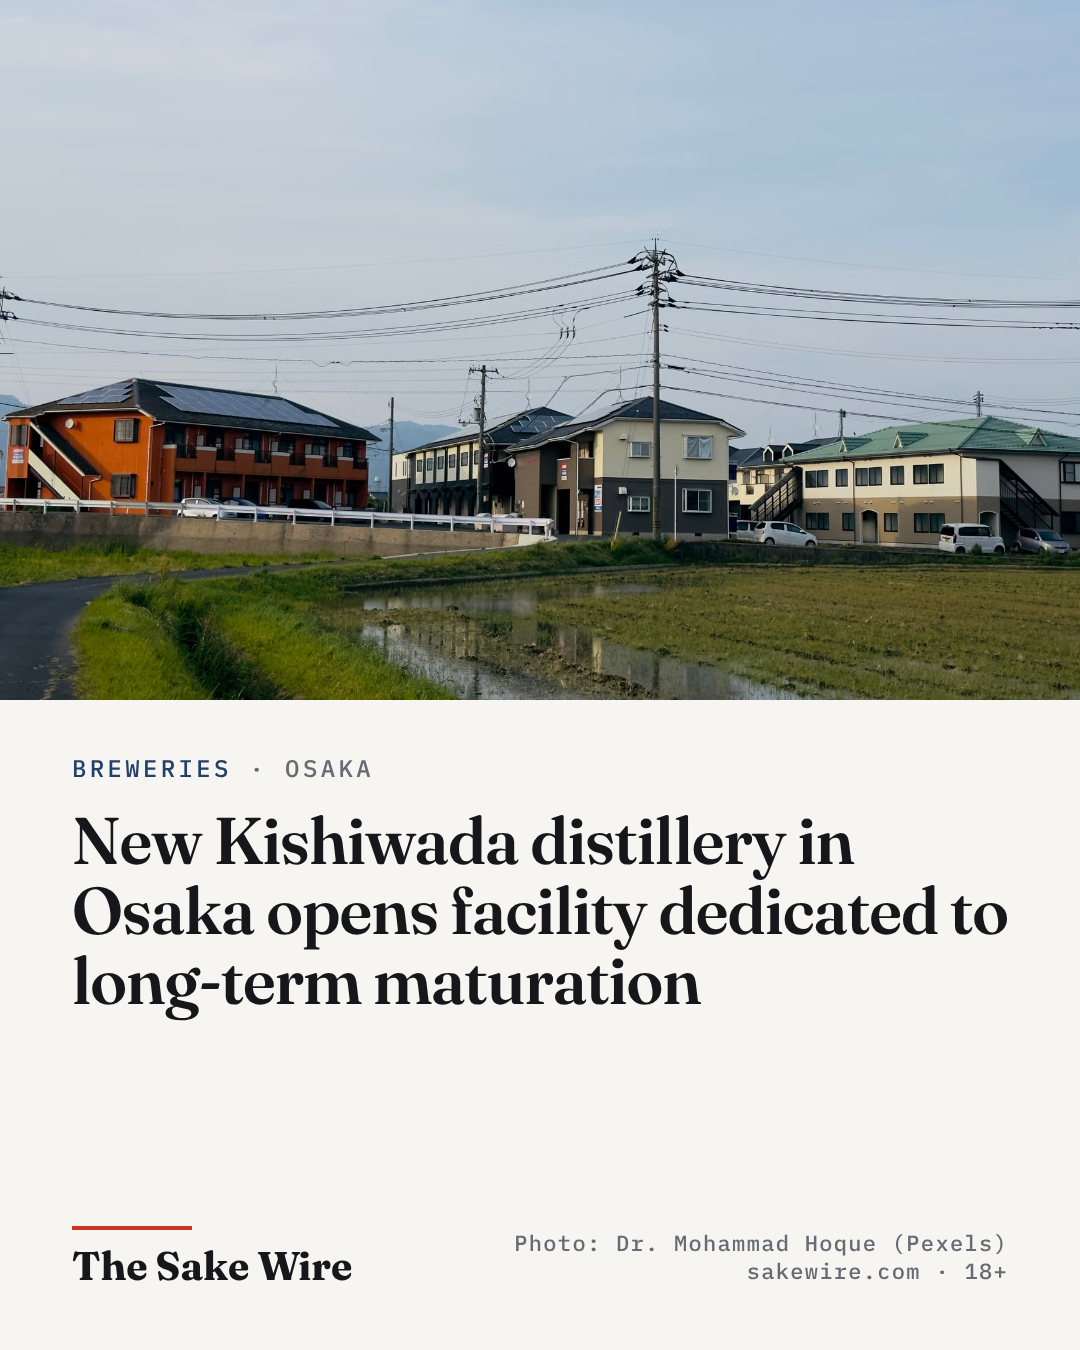
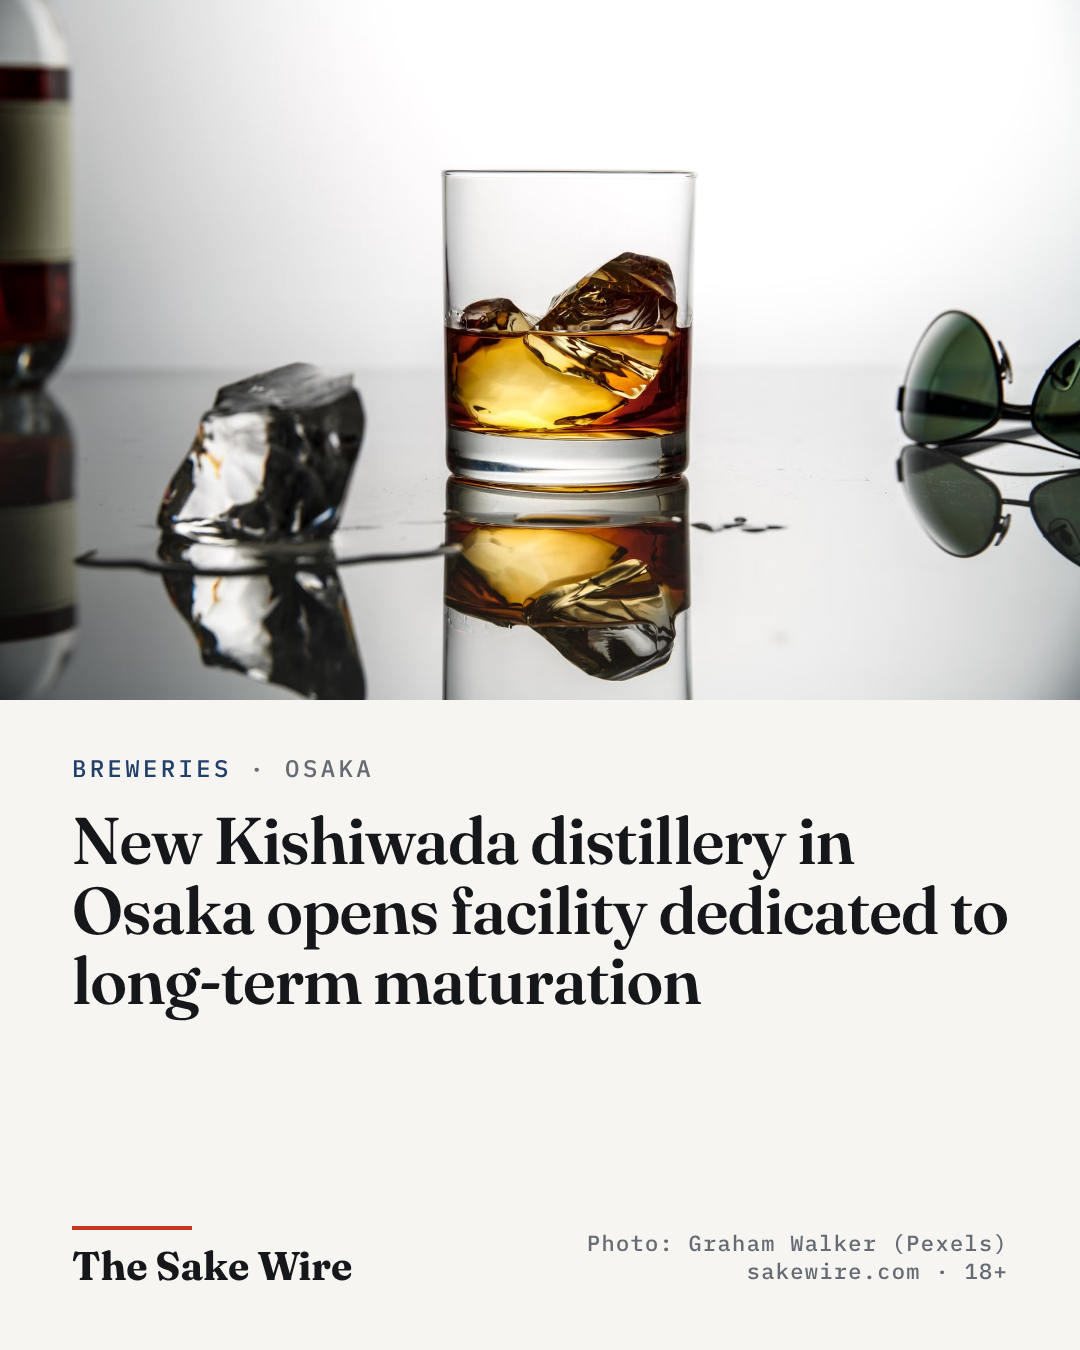
写真: 同じ実行で書いた原稿どうしも重複させない・酒の種類は先に出る語で判定・ヒーローも在庫から補う。11/18 の 2 本（岸和田の熟成庫＝雪の茅舎と同じ写真、輿水氏＝写真なし）のヒーローを差し替え
Claude-Session: https://claude.ai/code/session_01WJxMgopjZ6UU3rzyqzaB2E

diff --git a/sns/build_photo_pool.py b/sns/build_photo_pool.py
@@ -12,9 +12,13 @@ import photos, stock
 POOL = os.path.join(HERE, "photo_pool.json")
 QUERIES = {
     "sake": ["sake", "japanese sake", "sake cup", "sake bottle", "sake brewery", "sake barrel", "tokkuri", "ochoko", "masu cup", "sake tasting",
-             "izakaya", "rice polishing", "japanese rice", "rice harvest japan", "sake brewery japan", "sake pouring", "japanese liquor", "nihonshu"],
+             "izakaya", "rice polishing", "japanese rice", "rice harvest japan", "sake brewery japan", "sake pouring", "japanese liquor", "nihonshu",
+             # 銘柄が写りにくいもの（樽・瓶の写真は他の蔵の銘柄が読めて検品で落ちやすい）
+             "sake glass", "sake set", "ceramic sake cup", "sugidama", "koji rice", "steamed rice", "rice grains", "japanese countryside",
+             "japanese village snow", "japanese wooden house", "japanese restaurant counter", "sashimi and sake", "japanese food drink", "onsen town"],
     "beer": ["craft beer", "beer glass", "beer tap", "brewery tanks", "hops", "beer bottles", "pint of beer", "brewery", "craft brewery", "beer pouring"],
-    "whisky": ["whisky glass", "whiskey glass", "whisky barrel", "pot still", "whisky distillery", "oak casks", "whiskey tasting", "japanese whisky"],
+    "whisky": ["whisky glass", "whiskey glass", "whisky barrel", "pot still", "whisky distillery", "oak casks", "whiskey tasting", "japanese whisky",
+               "whiskey on the rocks", "amber spirit glass", "barrel warehouse", "copper still"],
     "shochu": ["shochu", "japanese liquor glass", "sweet potato", "kagoshima", "distillery japan", "izakaya drinks", "barley grain", "japanese spirits"],
     "wine": ["vineyard", "wine grapes", "wine glass", "wine barrels", "grape harvest", "winery", "red wine", "white wine"],
     "gin": ["gin tonic", "gin glass", "juniper berries", "botanicals", "gin bottle", "cocktail glass gin"],

diff --git a/write/article_ja.py b/write/article_ja.py
@@ -111,9 +111,13 @@ def place_media(gen, medias):
         # 2026-11-19 久保さん「サムネが無い・全く一緒、にならないように」: 固有の検索語 → 汎用の検索語の順に、重複なしで必ず 1 枚
         text = " ".join(str(gen.get(k) or "") for k in ("title", "lead", "hero_caption", "hero_query", "hero_prompt"))
         c = photos.pick_unique([gen.get("hero_query")], hdesc, exclude=ex, max_vet=3, per_query=3)
-        if not c:   # 固有の写真が無ければ、酒の種類の汎用写真（重複なし）で必ず埋める
-            k = photos.kind(str(gen.get("hero_query") or ""), text)[0]
-            c = photos.pick_unique(photos.fallback_queries(text, title=str(gen.get("hero_query") or "")), f"{k} — story: {gen.get('title') or ''}",
+        k = photos.kind(f"{gen.get('hero_query') or ''} {gen.get('title') or ''}", text)[0]
+        if not c:   # 固有の写真が無ければ、検品済みの汎用写真の在庫（sns/photo_pool.json）から未使用の 1 枚
+            sys.path.insert(0, os.path.join(os.path.dirname(os.path.dirname(os.path.abspath(__file__))), "sns")); import card_photo
+            c = card_photo.from_pool(k)
+            if c: c = {**c, "credit": c["credit"]}
+        if not c:   # 在庫も無ければ、酒の種類の汎用写真をその場で探す（重複なし）
+            c = photos.pick_unique(photos.fallback_queries(text, title=f"{gen.get('hero_query') or ''} {gen.get('title') or ''}"), f"{k} — story: {gen.get('title') or ''}",
                                    exclude=ex, max_vet=8, generic=True)
         if c: gen["hero_image"] = c["url"]; gen["hero_credit"] = c["credit"]
     return gen

diff --git a/write/photos.py b/write/photos.py
@@ -52,6 +52,9 @@ def used(extra=()):
         for u in re.findall(r'^hero:\s*"?([^"\n]+)"?\s*$', t, re.M) + re.findall(r'<img src="([^"]+)"', t) + re.findall(r"\[\[image:([^|\]]+)", t):
             s.add(pid(u))
     for v in ledger().values(): s.add(pid(v.get("url")))
+    for f in glob.glob(os.path.join(REPO, "data", "article_*.json")):   # 同じ実行で書いた未公開の原稿どうしも重複させない
+        try: s.add(pid(json.load(open(f)).get("hero") or ""))
+        except Exception: pass
     s.update(pid(u) for u in extra)
     s.discard("")
     return s
@@ -75,8 +78,9 @@ TOPIC = [(("export", "overseas", "輸出", "海外", "trade fair", "import"), ["
 def kind(title, text=""):
     """酒の種類。タイトルで決まればそれ、決まらなければ本文側で（日本酒の話がワイン樽に触れる、などの取り違えを避ける）。"""
     for t in ((title or "").lower(), (text or "").lower()):
-        hits = [(name, q) for name, kw, q in KINDS if any(w in t for w in kw)]
-        if hits: return hits[0]
+        # いちばん先に出てくる種類の語で決める（"sake in a wine glass" は日本酒、"whisky aged in sake casks" はウイスキー）
+        hits = sorted((min(t.find(w) for w in kw if w in t), i, name, q) for i, (name, kw, q) in enumerate(KINDS) if any(w in t for w in kw))
+        if hits: return hits[0][2], hits[0][3]
     return KINDS[-1][0], KINDS[-1][2]
 
 

diff --git a/site/src/content/articles/ja/2026-11-18-seiichi-koshimizu-suntory-blender-food-treasure-award.md b/site/src/content/articles/ja/2026-11-18-seiichi-koshimizu-suntory-blender-food-treasure-award.md
@@ -13,6 +13,9 @@ category: "受賞"
 akita: false
 tags: ["Japanese whisky", "Suntory", "Blender", "Award", "Agency for Cultural Affairs", "Hibiki"]
 sources: [{"name": "サントリーホールディングス", "title": "輿水 精一(こしみず せいいち)サントリー名誉チーフブレンダーが令和8年度（第1回）文化庁「食の至宝」を受賞", "url": "https://www.suntory.co.jp/news/article/2026/15170.html"}]
+hero: "https://images.pexels.com/photos/12431191/pexels-photo-12431191.jpeg?auto=compress&cs=tinysrgb&dpr=2&h=650&w=940"
+heroAlt: "ブレンダーの仕事を思わせる、琥珀色の原酒が並ぶテイスティング用のグラス"
+heroCredit: "写真: Cristian Mihaila（Pexels）"
 ---
 
 サントリーホールディングスは、名誉チーフブレンダーの輿水精一（こしみず・せいいち）氏が、令和8年度（2026年度）の文化庁「食の至宝」を受賞したと発表しました。今回が第1回となるこの顕彰で、輿水氏はシングルモルトの「山崎」「白州」、ブレンデッドウイスキーの「響」づくりに携わった功績を評価されました。日本のウイスキーが世界に知られるようになった過程に関わった作り手の一人が、国の文化行政の場で認められたことになります。

diff --git a/site/src/content/articles/es/2026-11-18-seiichi-koshimizu-suntory-blender-food-treasure-award.md b/site/src/content/articles/es/2026-11-18-seiichi-koshimizu-suntory-blender-food-treasure-award.md
@@ -13,6 +13,9 @@ category: "受賞"
 akita: false
 tags: ["Japanese whisky", "Suntory", "Blender", "Award", "Agency for Cultural Affairs", "Hibiki"]
 sources: [{"name": "サントリーホールディングス", "title": "輿水 精一(こしみず せいいち)サントリー名誉チーフブレンダーが令和8年度（第1回）文化庁「食の至宝」を受賞", "url": "https://www.suntory.co.jp/news/article/2026/15170.html"}]
+hero: "https://images.pexels.com/photos/12431191/pexels-photo-12431191.jpeg?auto=compress&cs=tinysrgb&dpr=2&h=650&w=940"
+heroAlt: "Copas de cata con whisky de color ámbar, que evocan el trabajo de un blender"
+heroCredit: "Foto: Cristian Mihaila (Pexels)"
 ---
 
 Suntory Holdings ha anunciado que su maestro blender honorario, Seiichi Koshimizu, ha recibido el «Tesoro Culinario» (Shoku no Shiho) de la Agencia de Asuntos Culturales de Japón correspondiente al año fiscal 2026 (Reiwa 8). En esta primera edición del galardón, Koshimizu fue reconocido por su participación en la elaboración de los single malts Yamazaki y Hakushu y del whisky blended Hibiki. Así, uno de los artífices que participaron en el proceso por el que el whisky japonés se dio a conocer en todo el mundo ha sido reconocido en el ámbito de la política cultural del Estado.

diff --git a/site/src/content/articles/nl/2026-11-18-seiichi-koshimizu-suntory-blender-food-treasure-award.md b/site/src/content/articles/nl/2026-11-18-seiichi-koshimizu-suntory-blender-food-treasure-award.md
@@ -13,6 +13,9 @@ category: "受賞"
 akita: false
 tags: ["Japanese whisky", "Suntory", "Blender", "Award", "Agency for Cultural Affairs", "Hibiki"]
 sources: [{"name": "サントリーホールディングス", "title": "輿水 精一(こしみず せいいち)サントリー名誉チーフブレンダーが令和8年度（第1回）文化庁「食の至宝」を受賞", "url": "https://www.suntory.co.jp/news/article/2026/15170.html"}]
+hero: "https://images.pexels.com/photos/12431191/pexels-photo-12431191.jpeg?auto=compress&cs=tinysrgb&dpr=2&h=650&w=940"
+heroAlt: "Proefglazen met amberkleurige whisky, een verwijzing naar het werk van een blender"
+heroCredit: "Foto: Cristian Mihaila (Pexels)"
 ---
 
 Suntory Holdings heeft bekendgemaakt dat Seiichi Koshimizu, eervol chief blender van het bedrijf, de "Culinaire Schat" (Shoku no Shiho) van het Japanse Agentschap voor Culturele Zaken voor het fiscale jaar 2026 (Reiwa 8) heeft ontvangen. In deze eerste editie van de onderscheiding werd Koshimizu gewaardeerd voor zijn aandeel in de totstandkoming van de single malts Yamazaki en Hakushu en de blended whisky Hibiki. Daarmee is een van de makers die betrokken waren bij de manier waarop Japanse whisky wereldwijd bekend werd, erkend binnen het culturele beleid van de overheid.

diff --git a/site/src/content/articles/de/2026-11-18-seiichi-koshimizu-suntory-blender-food-treasure-award.md b/site/src/content/articles/de/2026-11-18-seiichi-koshimizu-suntory-blender-food-treasure-award.md
@@ -13,6 +13,9 @@ category: "受賞"
 akita: false
 tags: ["Japanese whisky", "Suntory", "Blender", "Award", "Agency for Cultural Affairs", "Hibiki"]
 sources: [{"name": "サントリーホールディングス", "title": "輿水 精一(こしみず せいいち)サントリー名誉チーフブレンダーが令和8年度（第1回）文化庁「食の至宝」を受賞", "url": "https://www.suntory.co.jp/news/article/2026/15170.html"}]
+hero: "https://images.pexels.com/photos/12431191/pexels-photo-12431191.jpeg?auto=compress&cs=tinysrgb&dpr=2&h=650&w=940"
+heroAlt: "Verkostungsgläser mit bernsteinfarbenem Whisky, die an die Arbeit eines Blenders erinnern"
+heroCredit: "Foto: Cristian Mihaila (Pexels)"
 ---
 
 Suntory Holdings hat bekannt gegeben, dass der Ehren-Chefblender Seiichi Koshimizu den „Kulinarischen Schatz“ (Shoku no Shiho) der japanischen Kulturbehörde für das Haushaltsjahr 2026 (Reiwa 8) erhalten hat. In dieser ersten Verleihung der Auszeichnung wurde Koshimizu für seine Mitwirkung an den Single Malts Yamazaki und Hakushu sowie am Blended Whisky Hibiki gewürdigt. Damit wurde einer der Macher, die am Weg des japanischen Whiskys zu weltweiter Bekanntheit beteiligt waren, im Rahmen der staatlichen Kulturpolitik anerkannt.

diff --git a/site/src/content/articles/en/2026-11-18-seiichi-koshimizu-suntory-blender-food-treasure-award.md b/site/src/content/articles/en/2026-11-18-seiichi-koshimizu-suntory-blender-food-treasure-award.md
@@ -13,6 +13,9 @@ category: "受賞"
 akita: false
 tags: ["Japanese whisky", "Suntory", "Blender", "Award", "Agency for Cultural Affairs", "Hibiki"]
 sources: [{"name": "サントリーホールディングス", "title": "輿水 精一(こしみず せいいち)サントリー名誉チーフブレンダーが令和8年度（第1回）文化庁「食の至宝」を受賞", "url": "https://www.suntory.co.jp/news/article/2026/15170.html"}]
+hero: "https://images.pexels.com/photos/12431191/pexels-photo-12431191.jpeg?auto=compress&cs=tinysrgb&dpr=2&h=650&w=940"
+heroAlt: "Tasting glasses of amber-coloured whisky, evoking the work of a blender"
+heroCredit: "Photo: Cristian Mihaila (Pexels)"
 ---
 
 Suntory Holdings has announced that its honorary chief blender, Seiichi Koshimizu, has received the Agency for Cultural Affairs' "Culinary Treasure" (Shoku no Shiho) award for fiscal 2026 (Reiwa 8). In this inaugural round of the honour, Koshimizu was recognised for his work on the single malts Yamazaki and Hakushu and the blended whisky Hibiki. One of the makers involved in the process by which Japanese whisky became known around the world has thus been recognised in the setting of the nation's cultural administration.

diff --git a/site/src/content/articles/es/2026-11-18-osaka-kishiwada-distillery-opens-long-term-maturation-facili.md b/site/src/content/articles/es/2026-11-18-osaka-kishiwada-distillery-opens-long-term-maturation-facili.md
@@ -13,9 +13,9 @@ category: "蔵元"
 akita: false
 tags: ["Japanese whisky", "Osaka", "distillery", "maturation", "craft distilling"]
 sources: [{"name": "NHK", "title": "ウイスキー蒸留所で新しい熟成施設オープン 大阪 岸和田", "url": "https://news.web.nhk/newsweb/na/nd-20261109de72712"}]
-hero: "https://images.pexels.com/photos/32063683/pexels-photo-32063683.jpeg?auto=compress&cs=tinysrgb&dpr=2&h=650&w=940"
+hero: "https://images.pexels.com/photos/18831653/pexels-photo-18831653.jpeg?auto=compress&cs=tinysrgb&dpr=2&h=650&w=940"
 heroAlt: "Barricas de madera de whisky reposando en silencio en la bodega de maduración"
-heroCredit: "Foto: Dr. Mohammad  Hoque (Pexels)"
+heroCredit: "Foto: Graham Walker (Pexels)"
 ---
 
 Una destilería de whisky de Kishiwada, en la prefectura de Osaka, ha abierto una nueva instalación dedicada a la maduración prolongada y ha celebrado una ceremonia conmemorativa. Kishiwada es una localidad del sur de la prefectura de Osaka, frente a la bahía de Osaka. La destilería abrió en 2025 y es la segunda destilería de whisky de la prefectura de Osaka. Con la nueva instalación refuerza su capacidad para dejar madurar con calma el destilado nuevo.

diff --git a/site/src/content/articles/nl/2026-11-18-osaka-kishiwada-distillery-opens-long-term-maturation-facili.md b/site/src/content/articles/nl/2026-11-18-osaka-kishiwada-distillery-opens-long-term-maturation-facili.md
@@ -13,9 +13,9 @@ category: "蔵元"
 akita: false
 tags: ["Japanese whisky", "Osaka", "distillery", "maturation", "craft distilling"]
 sources: [{"name": "NHK", "title": "ウイスキー蒸留所で新しい熟成施設オープン 大阪 岸和田", "url": "https://news.web.nhk/newsweb/na/nd-20261109de72712"}]
-hero: "https://images.pexels.com/photos/32063683/pexels-photo-32063683.jpeg?auto=compress&cs=tinysrgb&dpr=2&h=650&w=940"
+hero: "https://images.pexels.com/photos/18831653/pexels-photo-18831653.jpeg?auto=compress&cs=tinysrgb&dpr=2&h=650&w=940"
 heroAlt: "Houten whiskyvaten die rustig rijpen in het rijpingsmagazijn"
-heroCredit: "Foto: Dr. Mohammad  Hoque (Pexels)"
+heroCredit: "Foto: Graham Walker (Pexels)"
 ---
 
 Een whiskydistilleerderij in Kishiwada in de prefectuur Osaka heeft een nieuwe faciliteit speciaal voor langdurige rijping geopend en daarbij een herdenkingsceremonie gehouden. Kishiwada is een stad in het zuiden van de prefectuur Osaka, aan de baai van Osaka. De distilleerderij opende in 2025 en is de tweede whiskydistilleerderij in de prefectuur Osaka. Met de nieuwe faciliteit versterkt zij haar capaciteit om de nieuwe spirit geduldig te laten rijpen.

diff --git a/site/src/content/articles/de/2026-11-18-osaka-kishiwada-distillery-opens-long-term-maturation-facili.md b/site/src/content/articles/de/2026-11-18-osaka-kishiwada-distillery-opens-long-term-maturation-facili.md
@@ -13,9 +13,9 @@ category: "蔵元"
 akita: false
 tags: ["Japanese whisky", "Osaka", "distillery", "maturation", "craft distilling"]
 sources: [{"name": "NHK", "title": "ウイスキー蒸留所で新しい熟成施設オープン 大阪 岸和田", "url": "https://news.web.nhk/newsweb/na/nd-20261109de72712"}]
-hero: "https://images.pexels.com/photos/32063683/pexels-photo-32063683.jpeg?auto=compress&cs=tinysrgb&dpr=2&h=650&w=940"
+hero: "https://images.pexels.com/photos/18831653/pexels-photo-18831653.jpeg?auto=compress&cs=tinysrgb&dpr=2&h=650&w=940"
 heroAlt: "Hölzerne Whiskyfässer, die ruhig im Reifelager schlummern"
-heroCredit: "Foto: Dr. Mohammad  Hoque (Pexels)"
+heroCredit: "Foto: Graham Walker (Pexels)"
 ---
 
 Eine Whisky-Destillerie in Kishiwada in der Präfektur Osaka hat eine neue Anlage speziell für die Langzeitreifung eröffnet und dazu eine Einweihungsfeier abgehalten. Kishiwada ist eine Stadt im Süden der Präfektur Osaka an der Bucht von Osaka. Die Destillerie wurde 2025 eröffnet und ist die zweite Whisky-Destillerie in der Präfektur Osaka. Mit der neuen Anlage stärkt sie ihre Kapazität, den New Make in Ruhe reifen zu lassen.

diff --git a/site/src/content/articles/ja/2026-11-18-osaka-kishiwada-distillery-opens-long-term-maturation-facili.md b/site/src/content/articles/ja/2026-11-18-osaka-kishiwada-distillery-opens-long-term-maturation-facili.md
@@ -13,9 +13,9 @@ category: "蔵元"
 akita: false
 tags: ["Japanese whisky", "Osaka", "distillery", "maturation", "craft distilling"]
 sources: [{"name": "NHK", "title": "ウイスキー蒸留所で新しい熟成施設オープン 大阪 岸和田", "url": "https://news.web.nhk/newsweb/na/nd-20261109de72712"}]
-hero: "https://images.pexels.com/photos/32063683/pexels-photo-32063683.jpeg?auto=compress&cs=tinysrgb&dpr=2&h=650&w=940"
+hero: "https://images.pexels.com/photos/18831653/pexels-photo-18831653.jpeg?auto=compress&cs=tinysrgb&dpr=2&h=650&w=940"
 heroAlt: "熟成庫で静かに眠るウイスキーの木樽"
-heroCredit: "写真: Dr. Mohammad  Hoque（Pexels）"
+heroCredit: "写真: Graham Walker（Pexels）"
 ---
 
 大阪府岸和田市にあるウイスキー蒸留所が、長期熟成専用の新しい施設をオープンし、記念式典を開きました。岸和田は大阪湾に面した大阪府南部の町です。この蒸留所は2025年に開業し、大阪府内では2カ所目のウイスキー蒸留所になります。新施設によって、原酒をじっくり寝かせる熟成能力を強化します。
